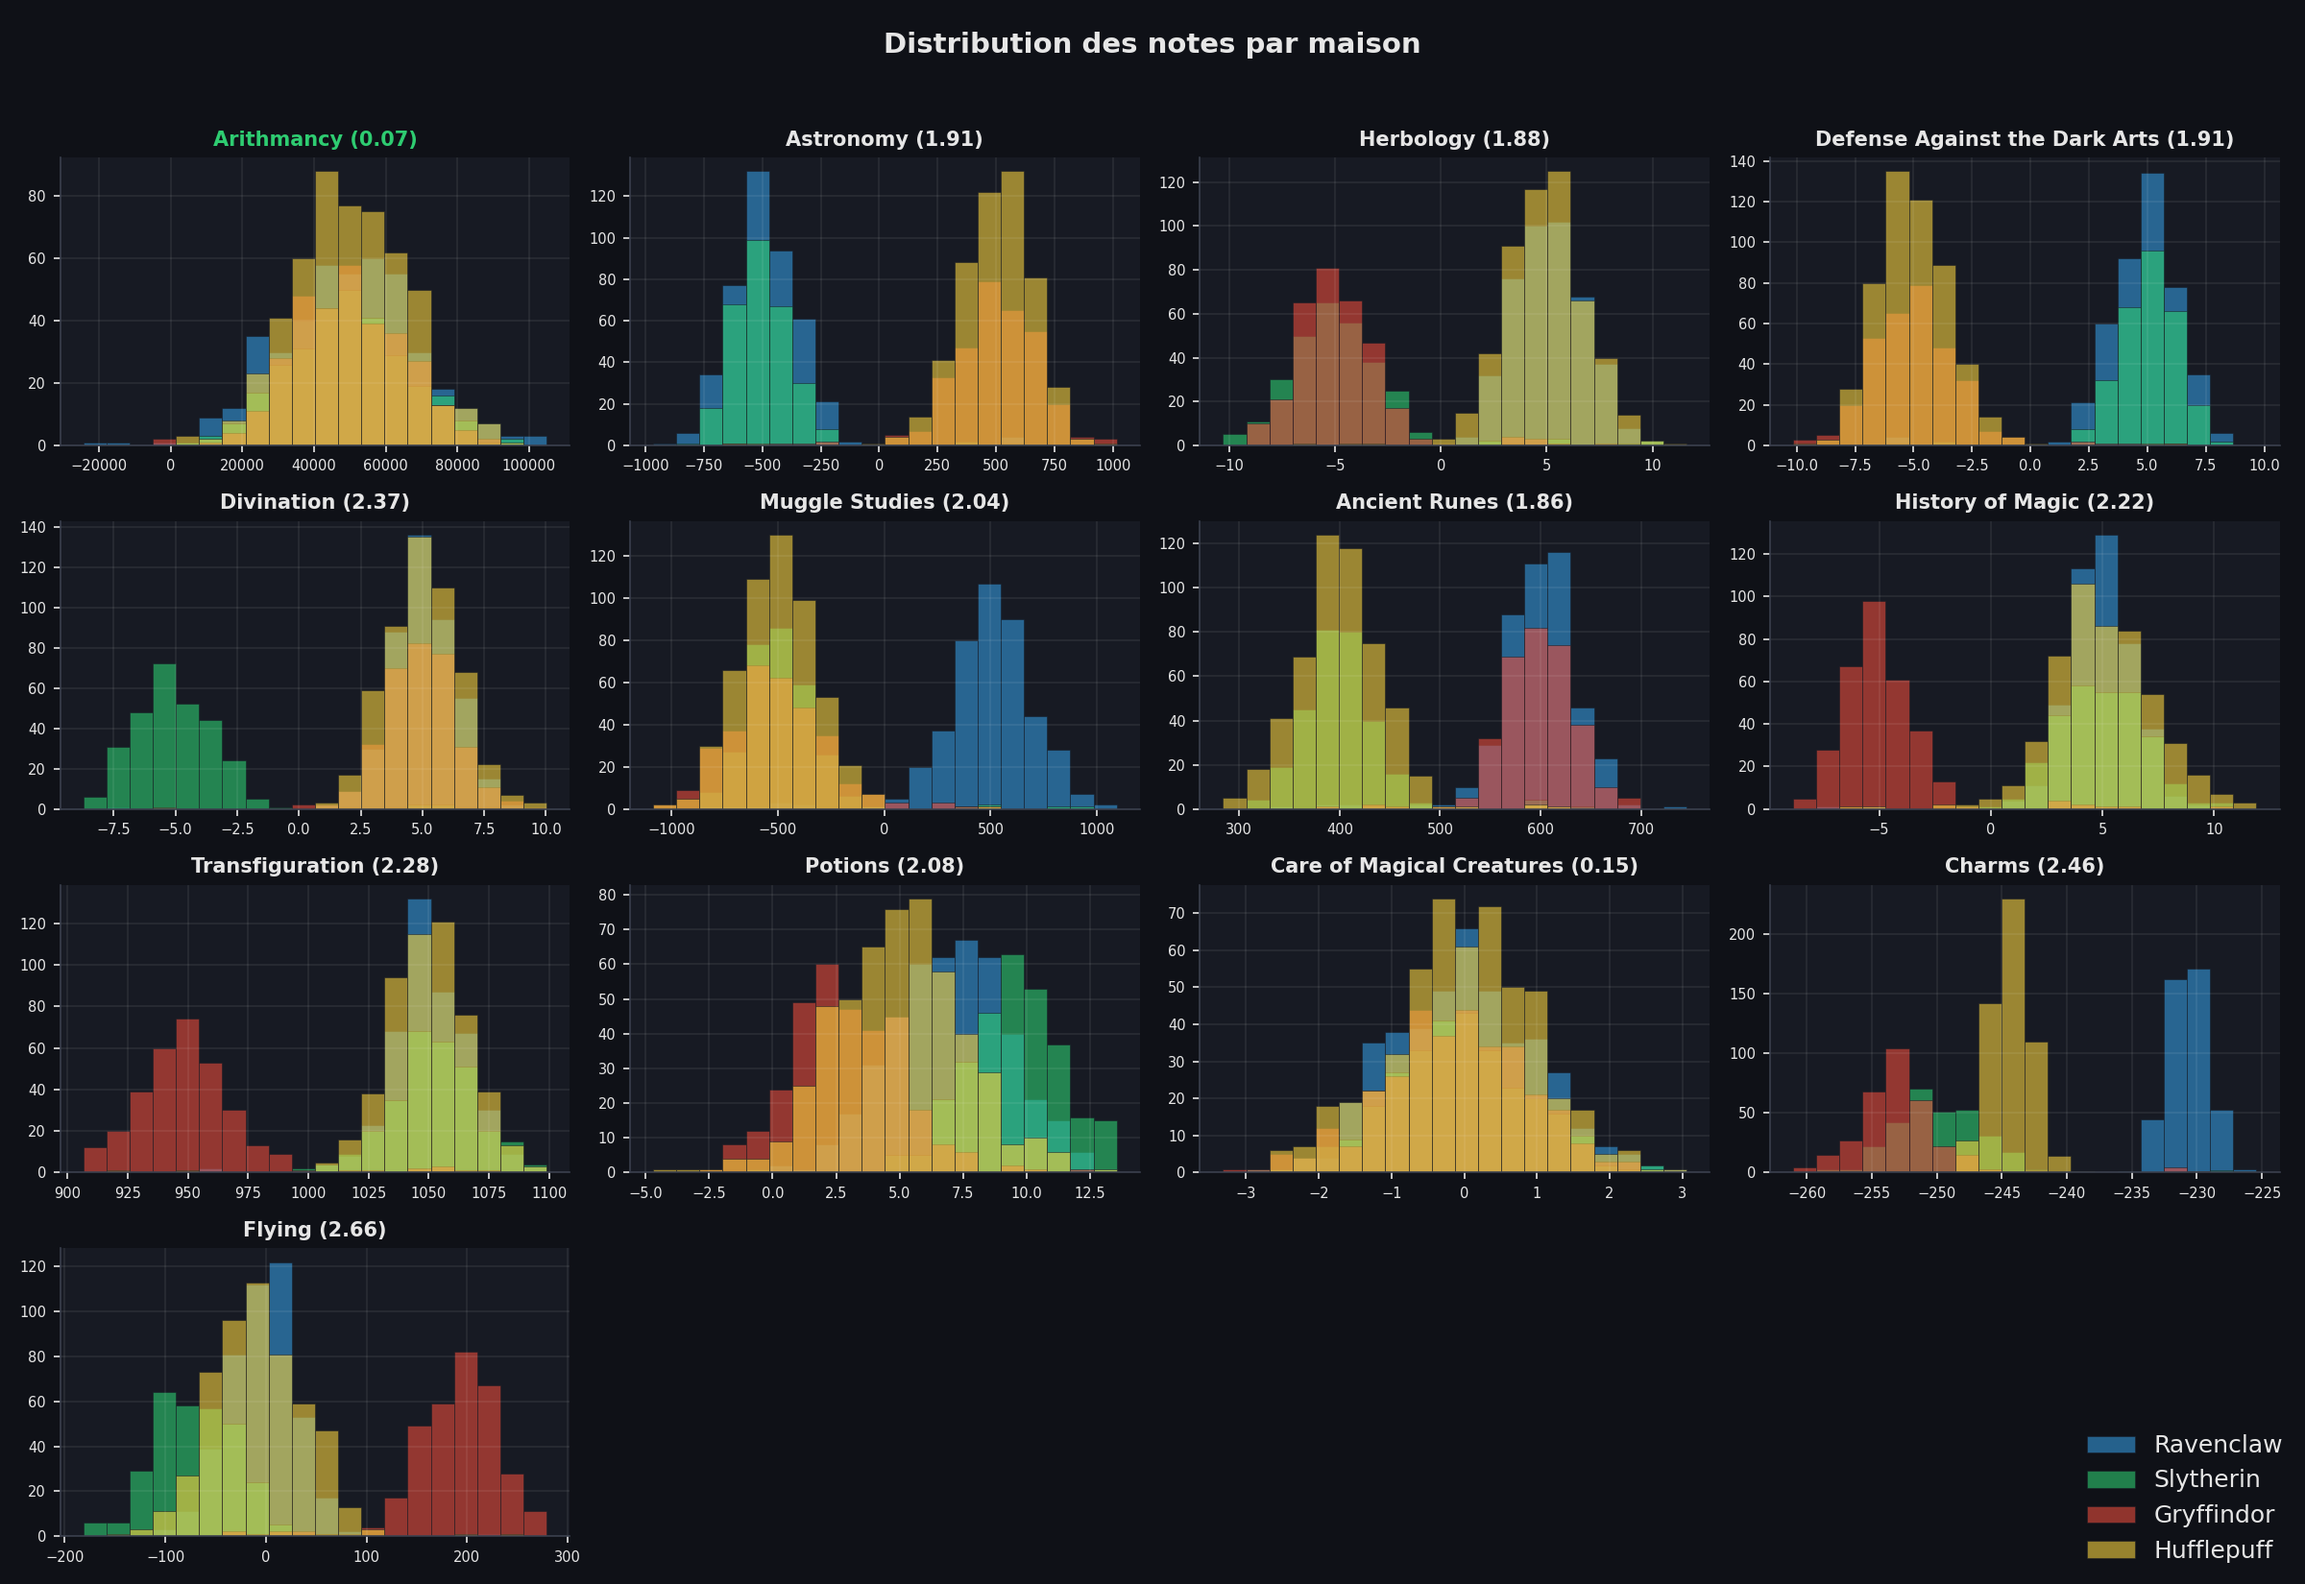
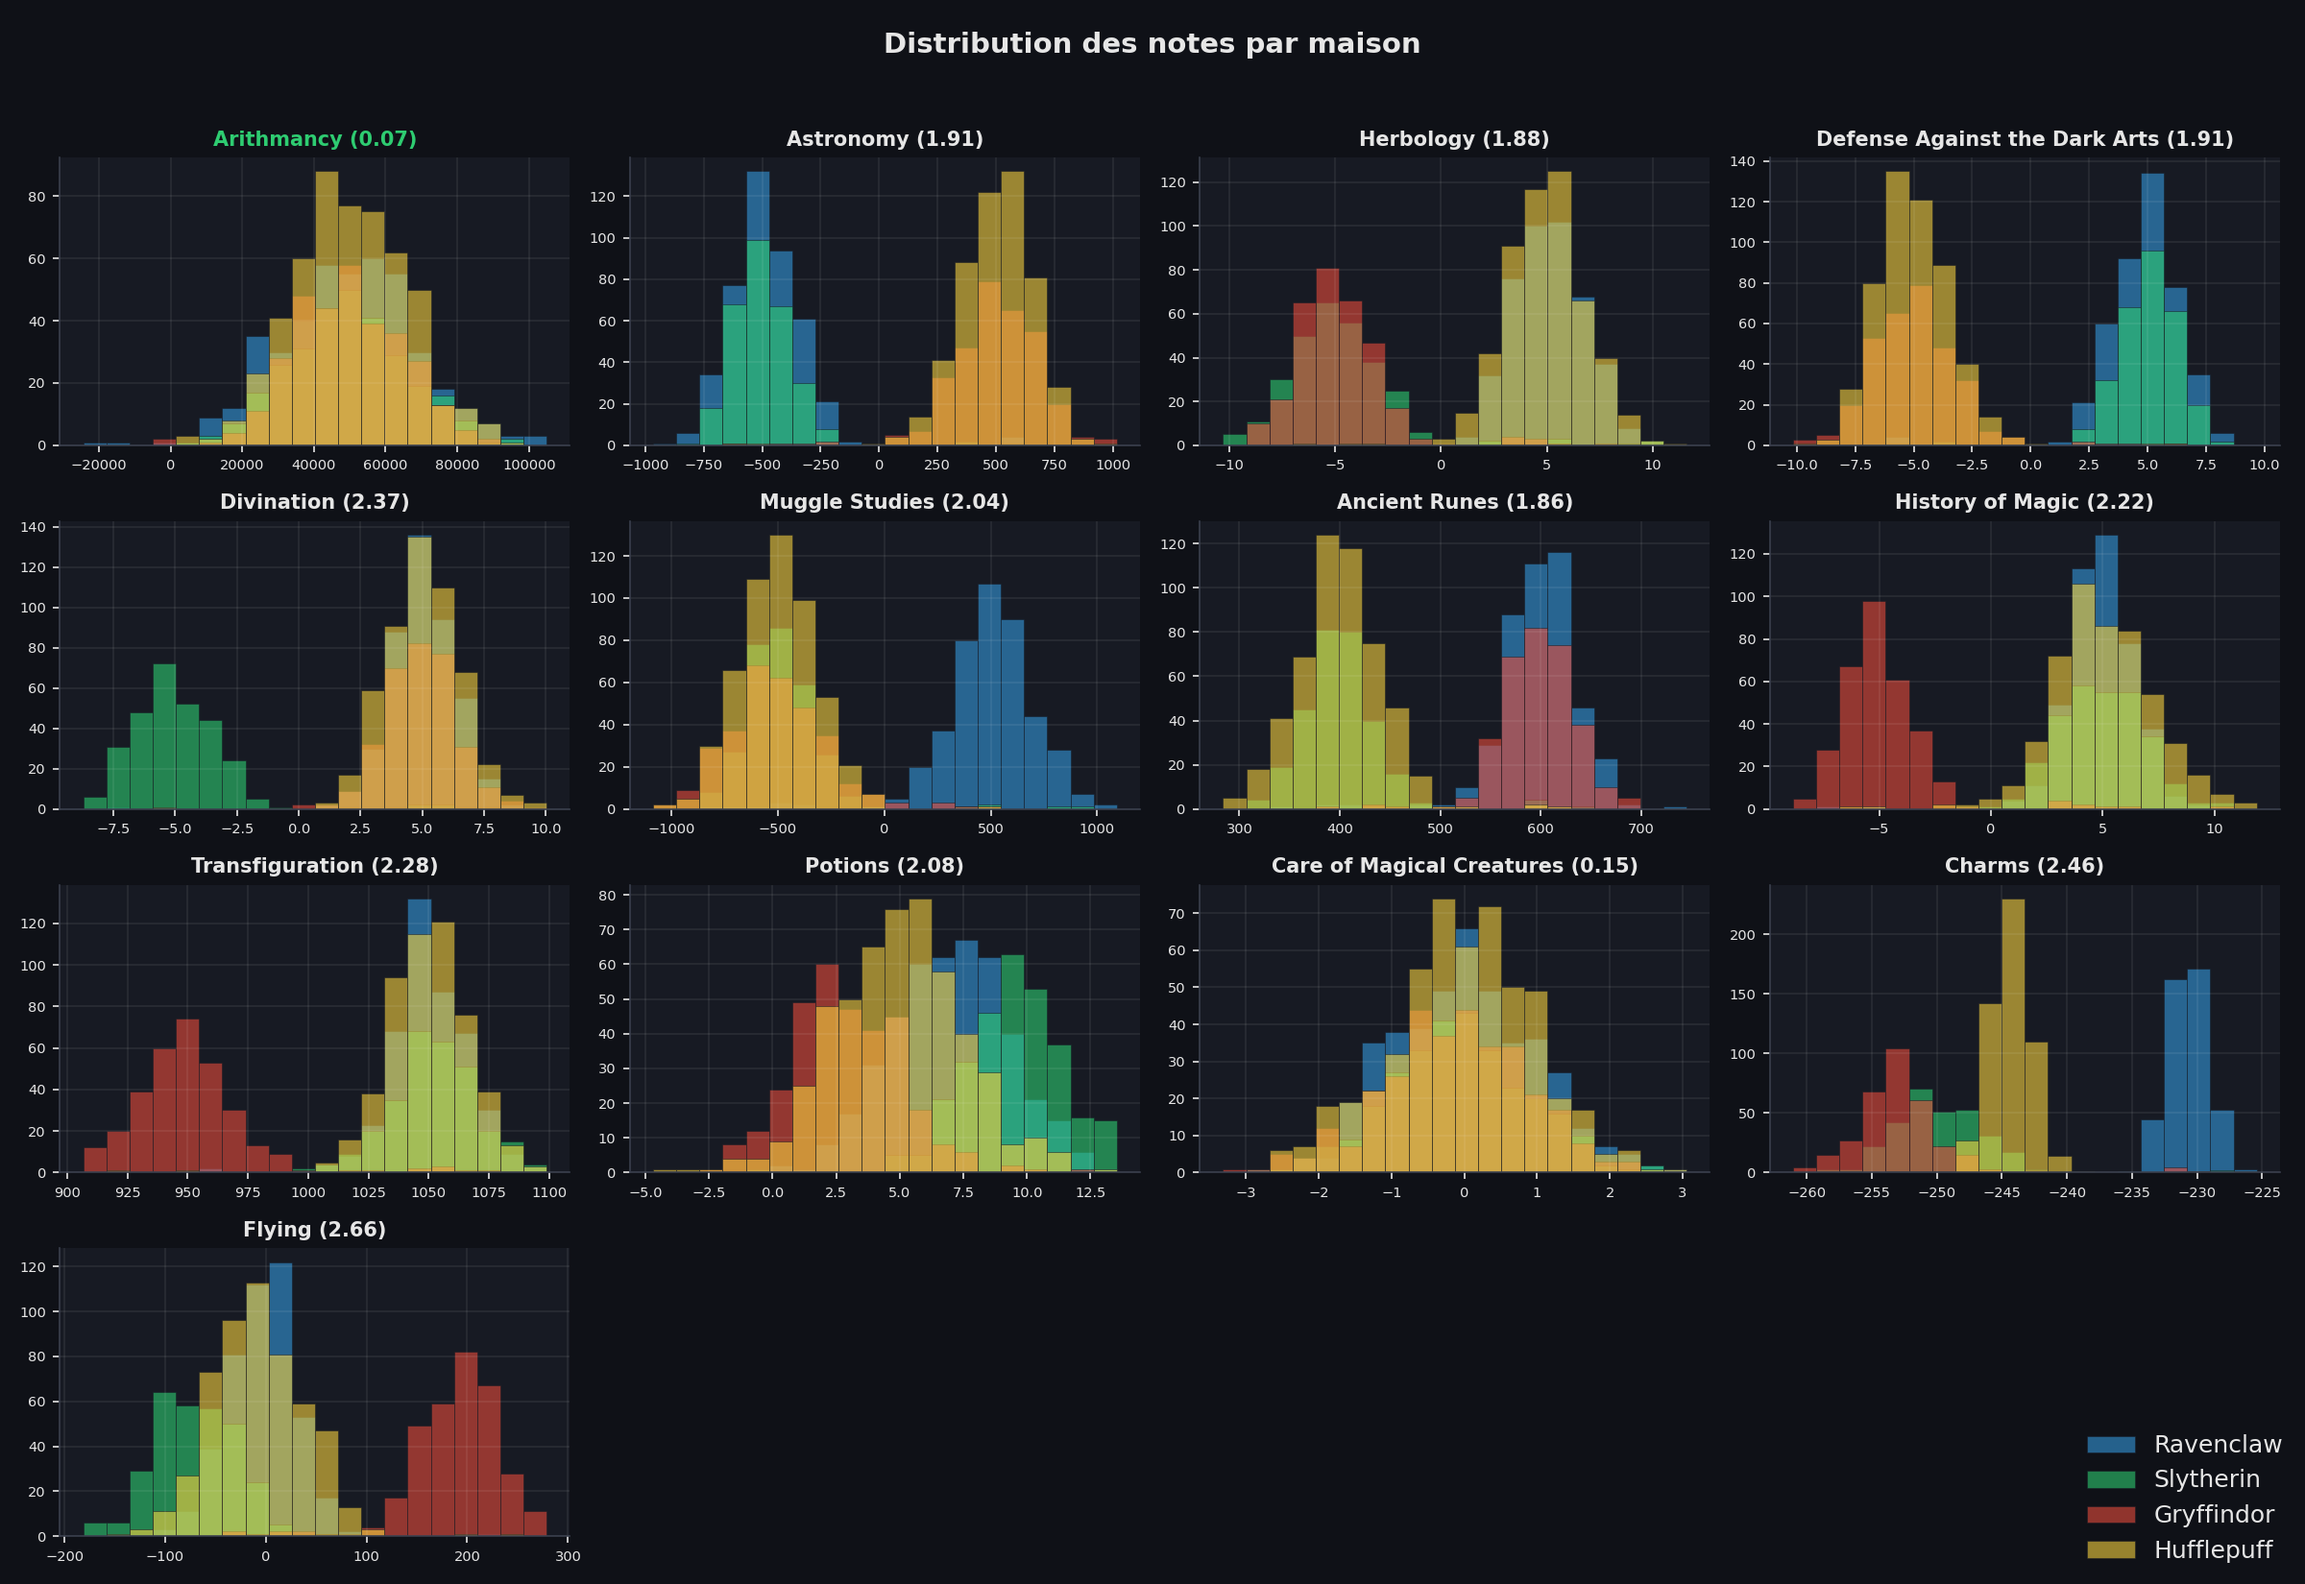
Add scatter_plot

Changed region(s): [[0.5938, 0.5255, 0.625, 0.5564], [0.3438, 0.0618, 0.375, 0.0927]]

diff --git a/scatter_plot.py b/scatter_plot.py
@@ -1,0 +1,123 @@
+# **************************************************************************** #
+#                                                                              #
+#                                                         :::      ::::::::    #
+#    scatter_plot.py                                    :+:      :+:    :+:    #
+#                                                     +:+ +:+         +:+      #
+#    By: gajanvie <gajanvie@student.42.fr>          +#+  +:+       +#+         #
+#                                                 +#+#+#+#+#+   +#+            #
+#    Created: 2026/10/09 14:19:49 by gajanvie          #+#    #+#              #
+#    Updated: 2026/10/09 14:28:28 by gajanvie         ###   ########.fr        #
+#                                                                              #
+# **************************************************************************** #
+
+import sys
+import matplotlib.pyplot as plt
+from csv_reader import load_csv, get_numeric_columns
+from maths_utils import ft_correlation
+from plot_style import COULEURS, TEXTE, appliquer_style
+
+
+def paires_valides(xs, ys):
+	"""garde eleve qui a des note dans les deux"""
+	px, py = [], []
+	for x, y in zip(xs, ys):
+		if x is not None and y is not None:
+			px.append(x)
+			py.append(y)
+	return px, py
+
+
+def toutes_les_correlations(numeriques):
+	"""correlation chaque paire cours"""
+	#qu une fois
+	noms = list(numeriques.keys())
+	resultats = []
+	for i in range(len(noms)):
+		for j in range(i + 1, len(noms)):
+			xs, ys = paires_valides(numeriques[noms[i]], numeriques[noms[j]])
+			resultats.append((noms[i], noms[j], ft_correlation(xs, ys)))
+	return resultats
+
+
+def classer(resultats):
+	"""triepaires |r| decroissan"""
+	return sorted(resultats, key=lambda t: abs(t[2]), reverse=True)
+
+
+def afficher_top(classement, n=10):
+	"""n paires les plus correles"""
+	print(f"{'Cours A':<30} {'Cours B':<30} {'r':>8}")
+	for a, b, r in classement[:n]:
+		print(f"{a:<30} {b:<30} {r:>8.4f}")
+
+
+def points_par_maison(colonnes, numeriques, cours_a, cours_b, nom_maison="Hogwarts House"):
+	"""renvoie {maison: ([xs], [ys])}eleves -> deux notes"""
+	resultat = {}
+	for i, maison in enumerate(colonnes[nom_maison]):
+		maison = maison.strip()
+		x = numeriques[cours_a][i]
+		y = numeriques[cours_b][i]
+		if maison == "" or x is None or y is None:
+			continue
+		xs, ys = resultat.setdefault(maison, ([], []))
+		xs.append(x)
+		ys.append(y)
+	return resultat
+
+
+def tracer(points, cours_a, cours_b, r):
+	"""scatter plot de la paire"""
+	appliquer_style()
+	fig, ax = plt.subplots(figsize=(9, 6))
+	for maison, (xs, ys) in points.items():
+		ax.scatter(xs, ys, s=14, alpha=0.7, label=maison, color=COULEURS[maison])
+	ax.set_xlabel(cours_a)
+	ax.set_ylabel(cours_b)
+	ax.set_title(f"{cours_a} vs {cours_b}  (r = {r:.4f})")
+	leg = ax.legend()
+	for texte in leg.get_texts():
+		texte.set_color(TEXTE)
+	plt.tight_layout()
+	plt.savefig("scatter_plot.png", dpi=150)
+	plt.show()
+
+
+def main():
+	if len(sys.argv) != 2:
+		print("Usage: python3 scatter_plot.py <dataset_train.csv>", file=sys.stderr)
+		sys.exit(1)
+	try:
+		colonnes, noms = load_csv(sys.argv[1])
+	except FileNotFoundError:
+		print(f"Fichier introuvable : {sys.argv[1]}", file=sys.stderr)
+		sys.exit(1)
+	except ValueError as e:
+		print(f"Erreur : {e}", file=sys.stderr)
+		sys.exit(1)
+
+	if "Hogwarts House" not in colonnes:
+		print("Colonne 'Hogwarts House' absente : utilise dataset_train.csv", file=sys.stderr)
+		sys.exit(1)
+
+	numeriques = get_numeric_columns(colonnes, noms)
+	if len(numeriques) < 2:
+		print("Il faut au moins 2 colonnes numeriques.", file=sys.stderr)
+		sys.exit(1)
+
+	classement = classer(toutes_les_correlations(numeriques))
+	print(f"Nombre de paires : {len(classement)}\n")
+	afficher_top(classement)
+
+	a, b, r = classement[0]
+	print(f"\nPaire la plus similaire : {a} / {b} (r = {r:.4f})")
+
+	points = points_par_maison(colonnes, numeriques, a, b)
+	if not points:
+		print("Aucune maison dans ce fichier : utilise dataset_train.csv", file=sys.stderr)
+		sys.exit(1)
+	tracer(points, a, b, r)
+
+
+if __name__ == "__main__":
+	main()

diff --git a/describe.py b/describe.py
@@ -6,7 +6,7 @@
 #    By: gajanvie <gajanvie@student.42.fr>          +#+  +:+       +#+         #
 #                                                 +#+#+#+#+#+   +#+            #
 #    Created: 2026/10/08 14:52:59 by gajanvie          #+#    #+#              #
-#    Updated: 2026/10/08 14:57:02 by gajanvie         ###   ########.fr        #
+#    Updated: 2026/10/09 14:11:50 by gajanvie         ###   ########.fr        #
 #                                                                              #
 # **************************************************************************** #
 
